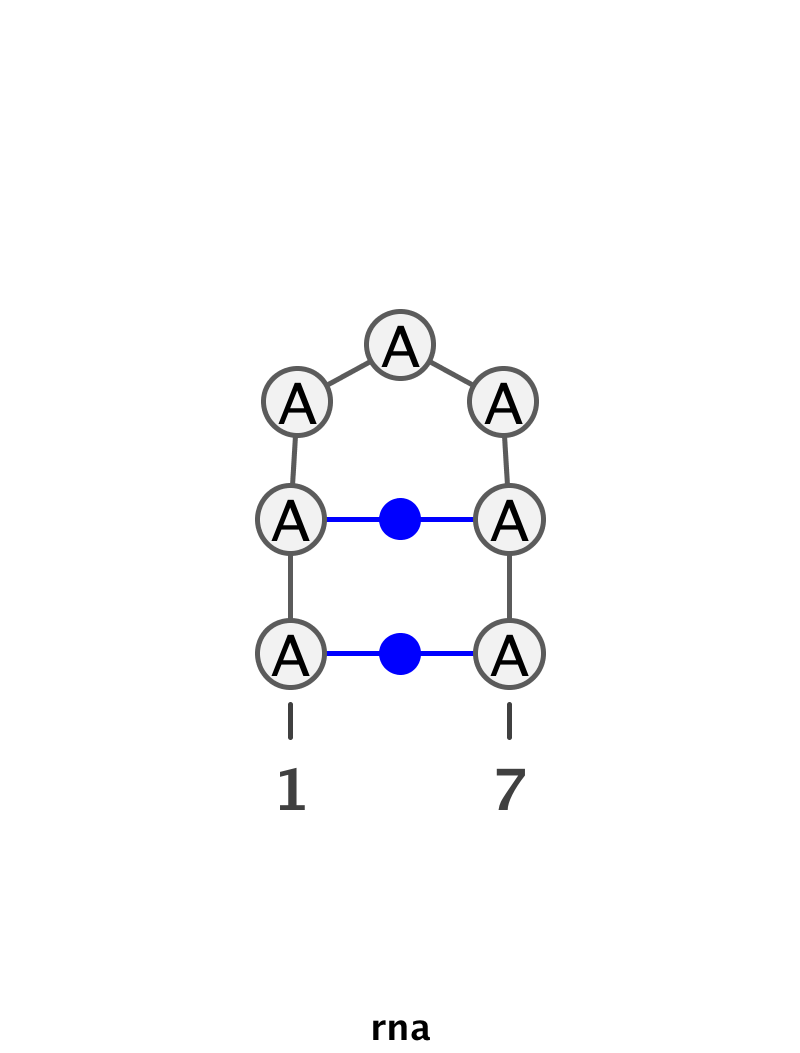
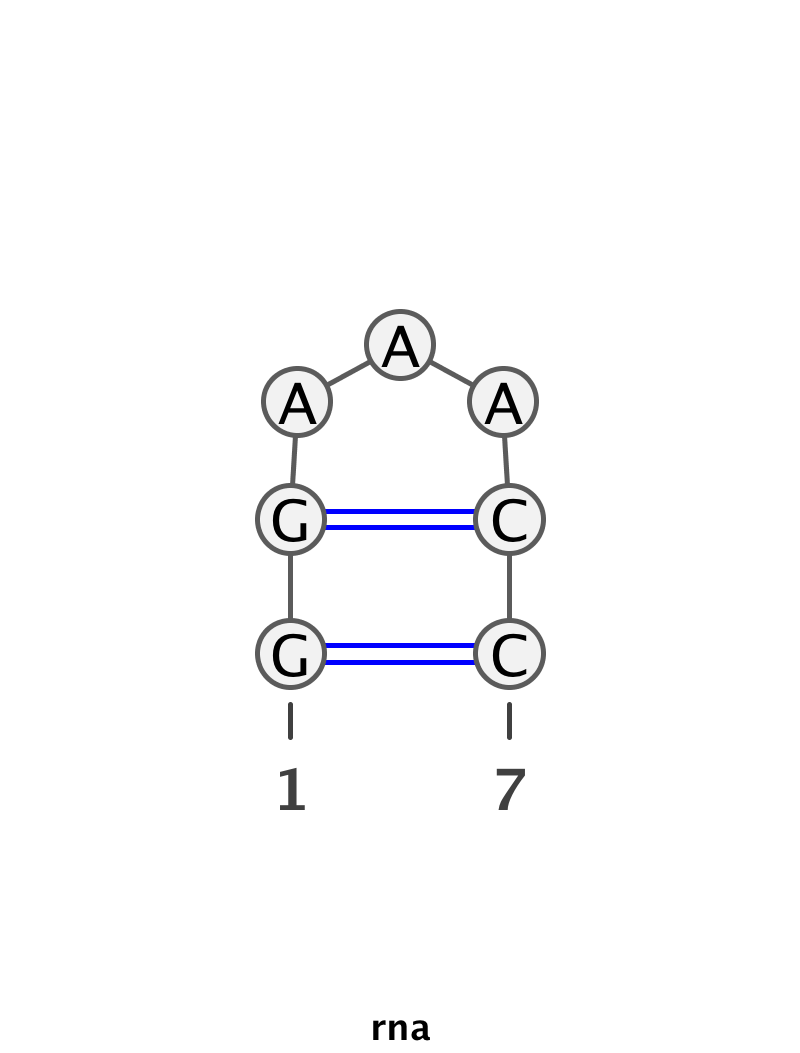
docs: add RNA Secondary Structure Visualization

Changed region(s): [[0.3438, 0.4558, 0.6562, 0.5166], [0.4062, 0.5774, 0.6562, 0.6686], [0.3438, 0.5774, 0.375, 0.6686]]

diff --git a/rna_pdb_tools/SecondaryStructure.py b/rna_pdb_tools/SecondaryStructure.py
@@ -14,6 +14,18 @@ def draw_ss(title, seq, ss, img_out, resolution=2, verbose=False):
 
     If everything is OK, return None, if an error (=exception) return stderr.
 
+    Usage::
+
+       >>> seq = 'GGAAACC'
+       >>> ss =  '((...))'
+       >>> img_out = 'output/demo.png'
+       >>> draw_ss('rna', seq, ss, img_out)
+       >>> print('Made %s' % img_out)
+       Made output/demo.png
+
+    .. image:: ../../rna_pdb_tools/output/demo.png
+       :scale: 25 %
+
     Can be used with http://geekbook.readthedocs.io/en/latest/rna.html"""
     curr = os.getcwd()
     os.chdir(VARNA_PATH)#VARNAv3-93-src')
@@ -35,8 +47,5 @@ def draw_ss(title, seq, ss, img_out, resolution=2, verbose=False):
 
     
 if __name__ == '__main__':
-    seq = 'AAAAAAA'
-    ss =  '((...))'
-    img_out = 'output/demo.png'
-    draw_ss('rna', seq, ss, img_out)
-    print('Made %s' % img_out)
+    import doctest
+    doctest.testmod()

diff --git a/docs/source/utils.rst b/docs/source/utils.rst
@@ -7,6 +7,12 @@ RNA Sequence
 .. automodule:: rna_pdb_tools.Seq
    :members:
 
+RNA Secondary Structure Visualization
+------------------------------------------
+
+.. automodule:: rna_pdb_tools.SecondaryStructure
+   :members:
+
 Blast PDB
 ------------------------------------------
 
